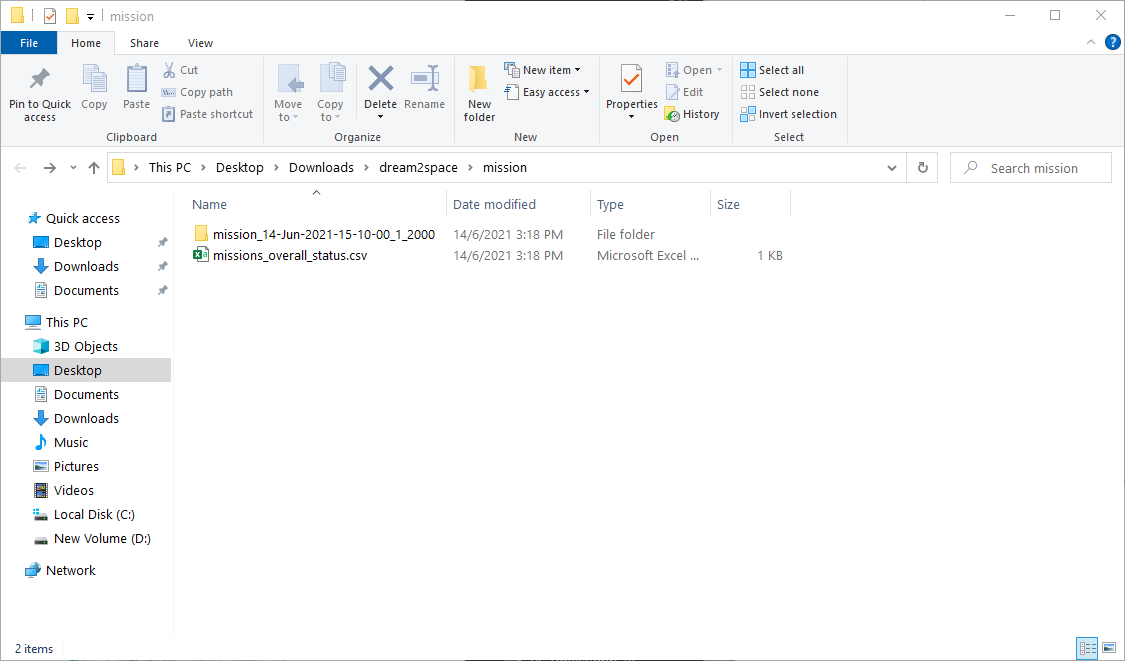
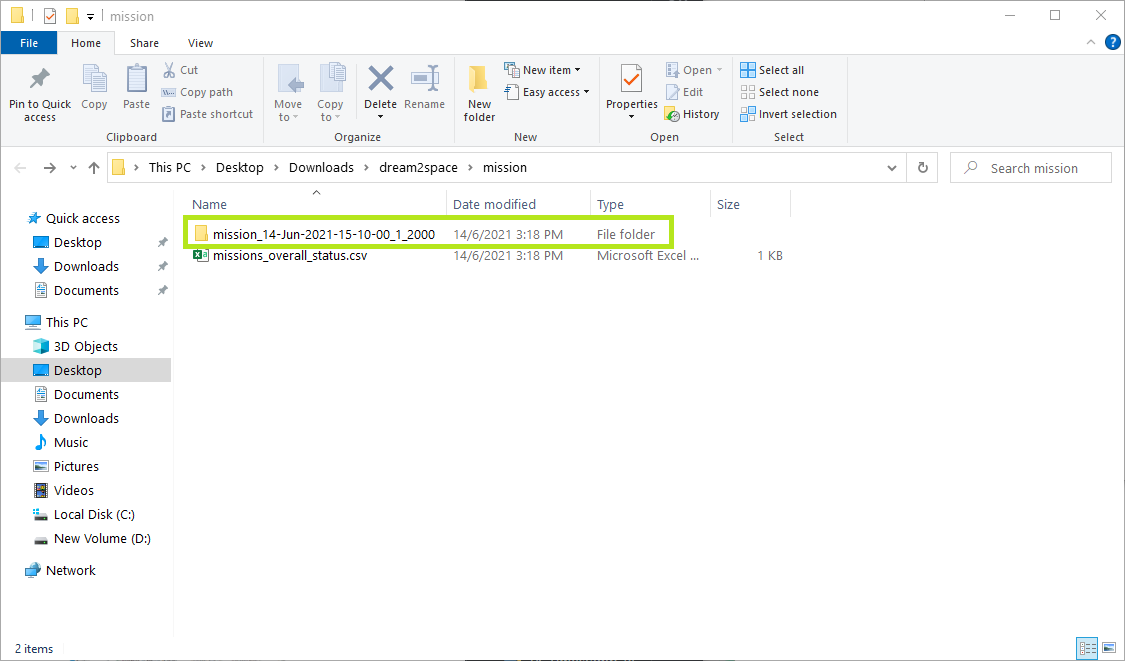
completed draft

Changed region(s): [[0.1556, 0.3026, 0.5911, 0.3933], [0.5911, 0.3328, 0.6222, 0.3631]]

diff --git a/v0.2-doc/Ground_Stn_Doc.md b/v0.2-doc/Ground_Stn_Doc.md
@@ -329,9 +329,9 @@ The `Mission Start Date` and `Mission Start Time` panels are boxed in **<span st
 
 To send the mission command, click on the Submit button.
 
-<img src="images/app-mission-window-submit.png" alt="Mission command submit button" width="90%"/>
-
 The Submit button is boxed in **<span style="color: lime">green</span>** in the screenshot below.
+
+<img src="images/app-mission-window-submit.png" alt="Mission command submit button" width="90%"/>
 
 ### Step 2: Waiting for Mission to be executed
 
@@ -365,18 +365,50 @@ The mission record will remain there until the completion of downlink, decoding 
 
 ### Step 4: Viewing status of Missions
 
+After the completion of downlink, the mission record will be removed from the `Missions Currently in Downlink` panel.
+
+To view the overall status of the mission, click on the button to view completed mission/downlink operations.
+
+The button is boxed in **<span style="color: lime">green</span>** in the screenshot below.
+
 <img src="images/app-mission-view-completed.png" alt="Mission view completed button" width="90%"/>
+
+Clicking on the button opens up a CSV file containing the status records of all missions executed.
+
+.... about what is success or fail ....
+
+The screenshot below shows an example if the status if the mission was successful.
 
 <img src="images/app-mission-view-overall-status.png" alt="View overall status of missions" width="90%"/>
 
-### Step 4: Viewing Mission status and images
-
-<img src="images/app-mission-view-location.png" alt="Mission saved location" width="90%"/>
-
-<img src="images/app-mission-view-mission-folder.png" alt="View mission folder" width="90%"/>
-
-<img src="images/app-mission-view-mission-status.png" alt="View mission status" width="90%"/>
+The screenshot below shows an example if the status if the mission has failed.
 
 <img src="images/app-mission-view-overall-status-fail.png" alt="View overall status of missions with fail" width="90%"/>
 
+### Step 4: Viewing Mission status and images
+
+Clicking on the button also opens up an explorer to view the list of folders where mission images are stored in.
+
+Click on the folder containing the executed mission to view the contents.
+
+For example, the folder with the mission previously executed is boxed in **<span style="color: lime">green</span>** in the screenshot below.
+
+<img src="images/app-mission-view-location.png" alt="Mission saved location" width="90%"/>
+
+If the mission was successful, the decoded and processed images will be found in the folder.
+
+A text file log of the detailed mission status will also be found in the folder.
+
+<img src="images/app-mission-view-mission-folder.png" alt="View mission folder" width="90%"/>
+
+Opening the text log file will show the status of each process that the Ground Station undertakes to recieve, decode and process the image.
+
+<img src="images/app-mission-view-mission-status.png" alt="View mission status" width="90%"/>
+
+This is important in the scenario to find out what is wrong in the downlink process.
+
+For example, the logs below show that the decoding of the images using Base64 has failed.
+
 <img src="images/app-mission-view-mission-status-fail.png" alt="View mission status with fail" width="90%"/>
+
+This is useful for debugging and troubleshooting the connections and transmission between the Cubesat and the Ground Station.
